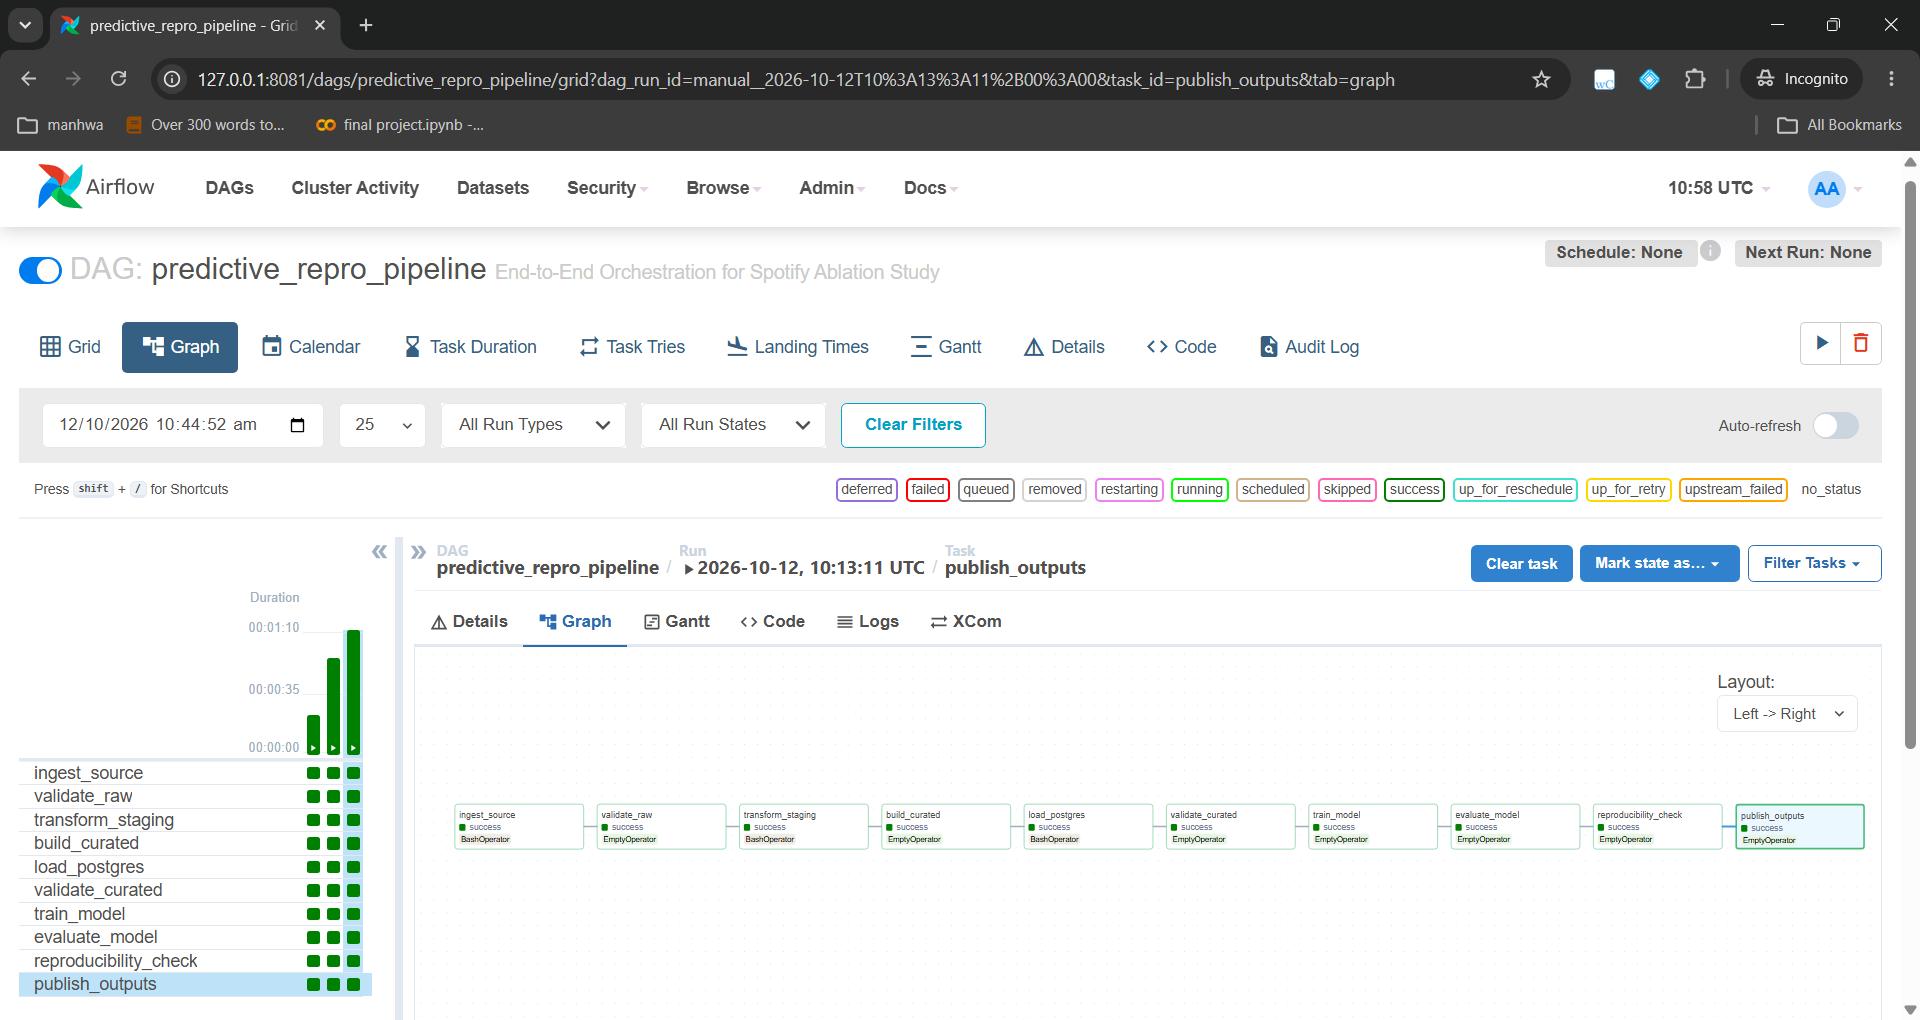
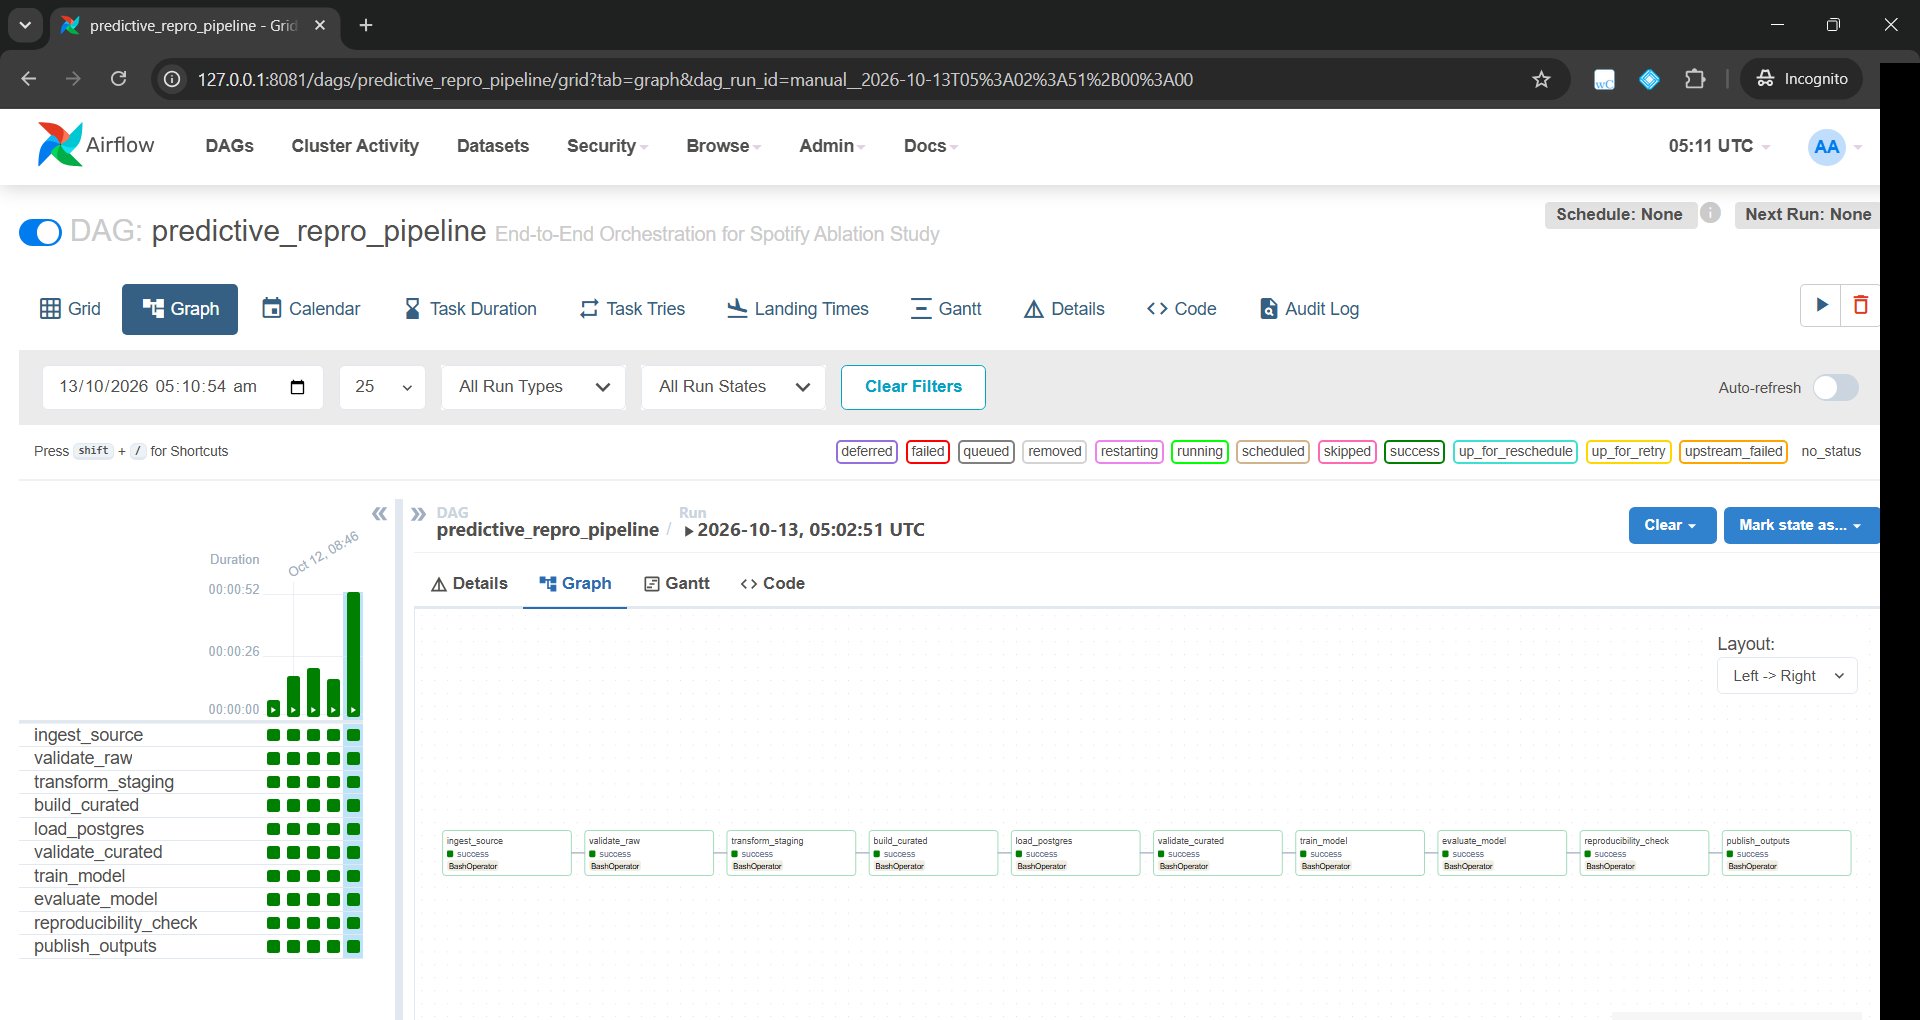
fix(pipeline): resolve timestamp datatype mismatch in storage and update Airflow success screenshot

diff --git a/src/ingest.py b/src/ingest.py
@@ -72,7 +72,7 @@ def run_ingestion(mode="full", force=False):
     now_ts = datetime.now(timezone.utc).isoformat()
 
     if mode == "full" or force or not os.path.exists(watermark_path) or not os.path.exists(raw_path):
-        df["_etl_loaded_at"] = now_ts
+        df["_etl_loaded_at"] = pd.Timestamp.now("UTC").tz_localize(None)
         df["_ingest_mode"] = mode
         df.to_parquet(raw_path, index=False)
         watermark = {
@@ -118,7 +118,7 @@ def run_ingestion(mode="full", force=False):
     end_row = int(batch_bounds[next_batch_idx])
 
     new_slice = df.iloc[last_row:end_row].copy()
-    new_slice["_etl_loaded_at"] = now_ts
+    new_slice["_etl_loaded_at"] = pd.Timestamp.now("UTC").tz_localize(None)
     new_slice["_ingest_mode"] = "incremental"
 
     existing_df = pd.read_parquet(raw_path)

diff --git a/src/storage.py b/src/storage.py
@@ -41,6 +41,10 @@ def load_to_postgres(full_refresh=False, engine=None, curated_path=None):
 
     print(f"Reading curated data from {curated_path}...")
     df = pd.read_parquet(curated_path)
+    for ts_col in ("_etl_loaded_at", "_staged_at", "_curated_at"):
+        if ts_col in df.columns:
+            df[ts_col] = pd.to_datetime(df[ts_col], utc=True, errors="coerce").dt.tz_localize(None)
+
     df = df.drop(columns=['Unnamed: 0'], errors='ignore')
 
     if SPLIT_COL not in df.columns:
